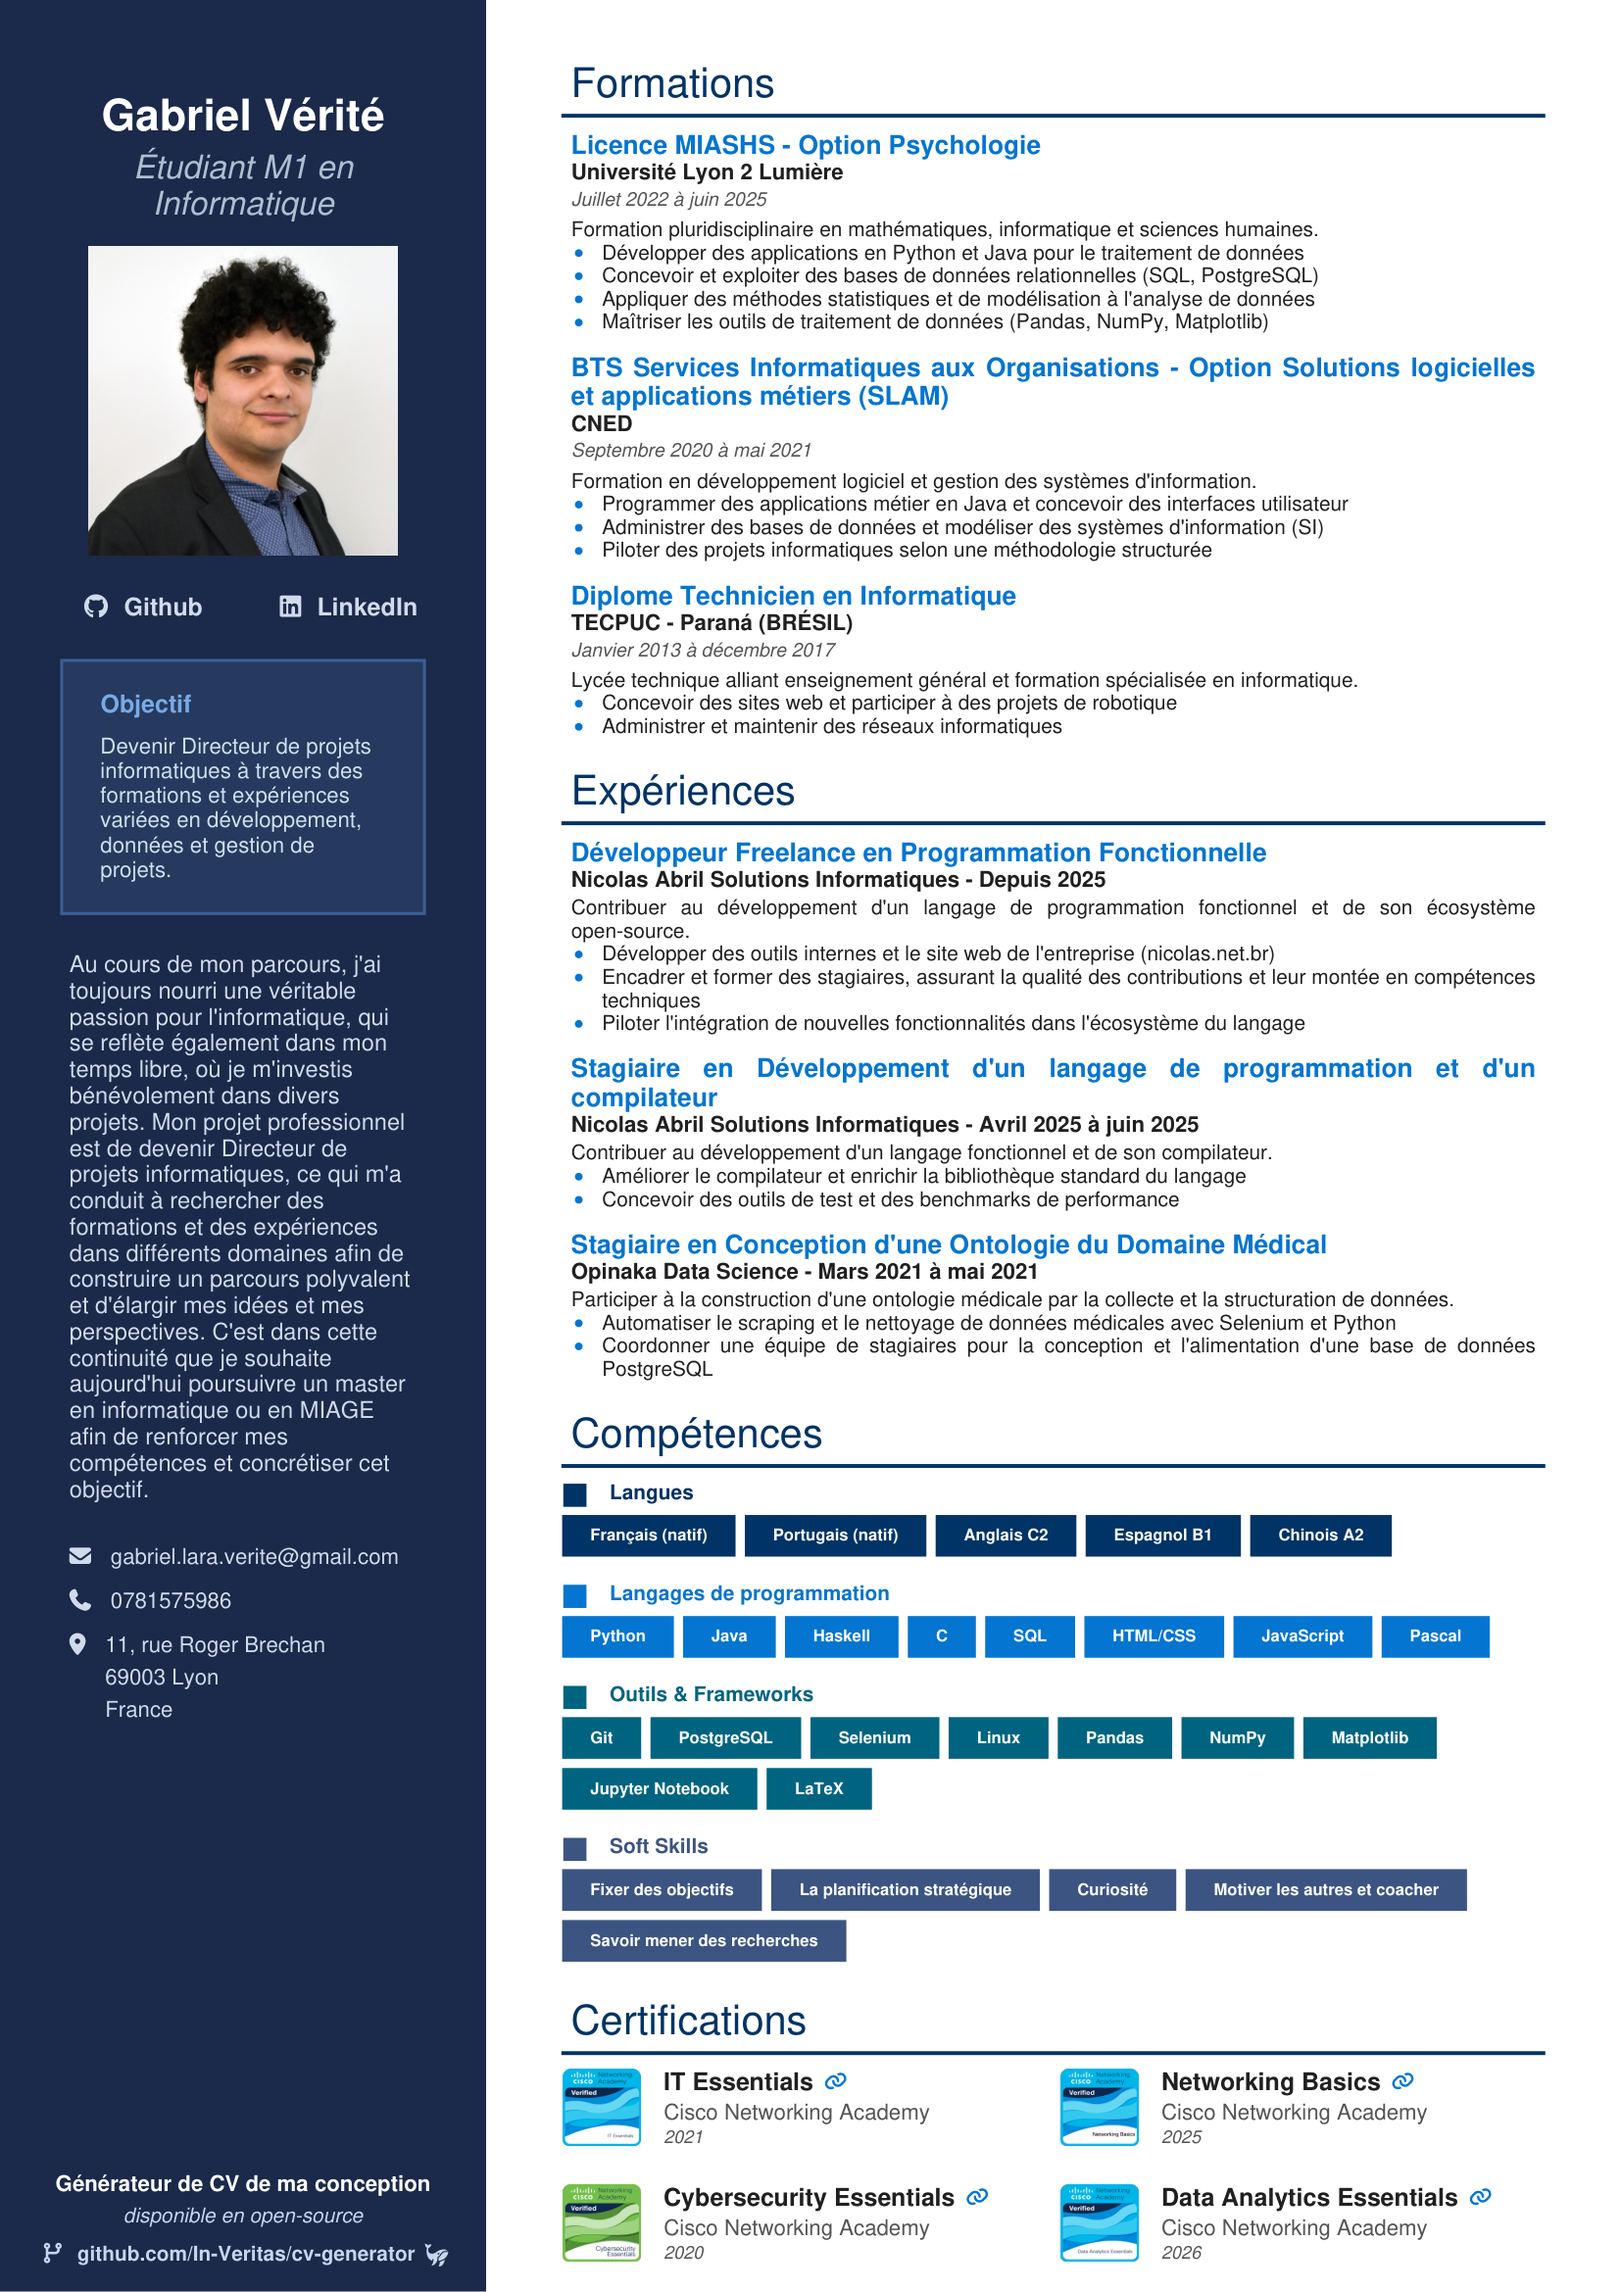
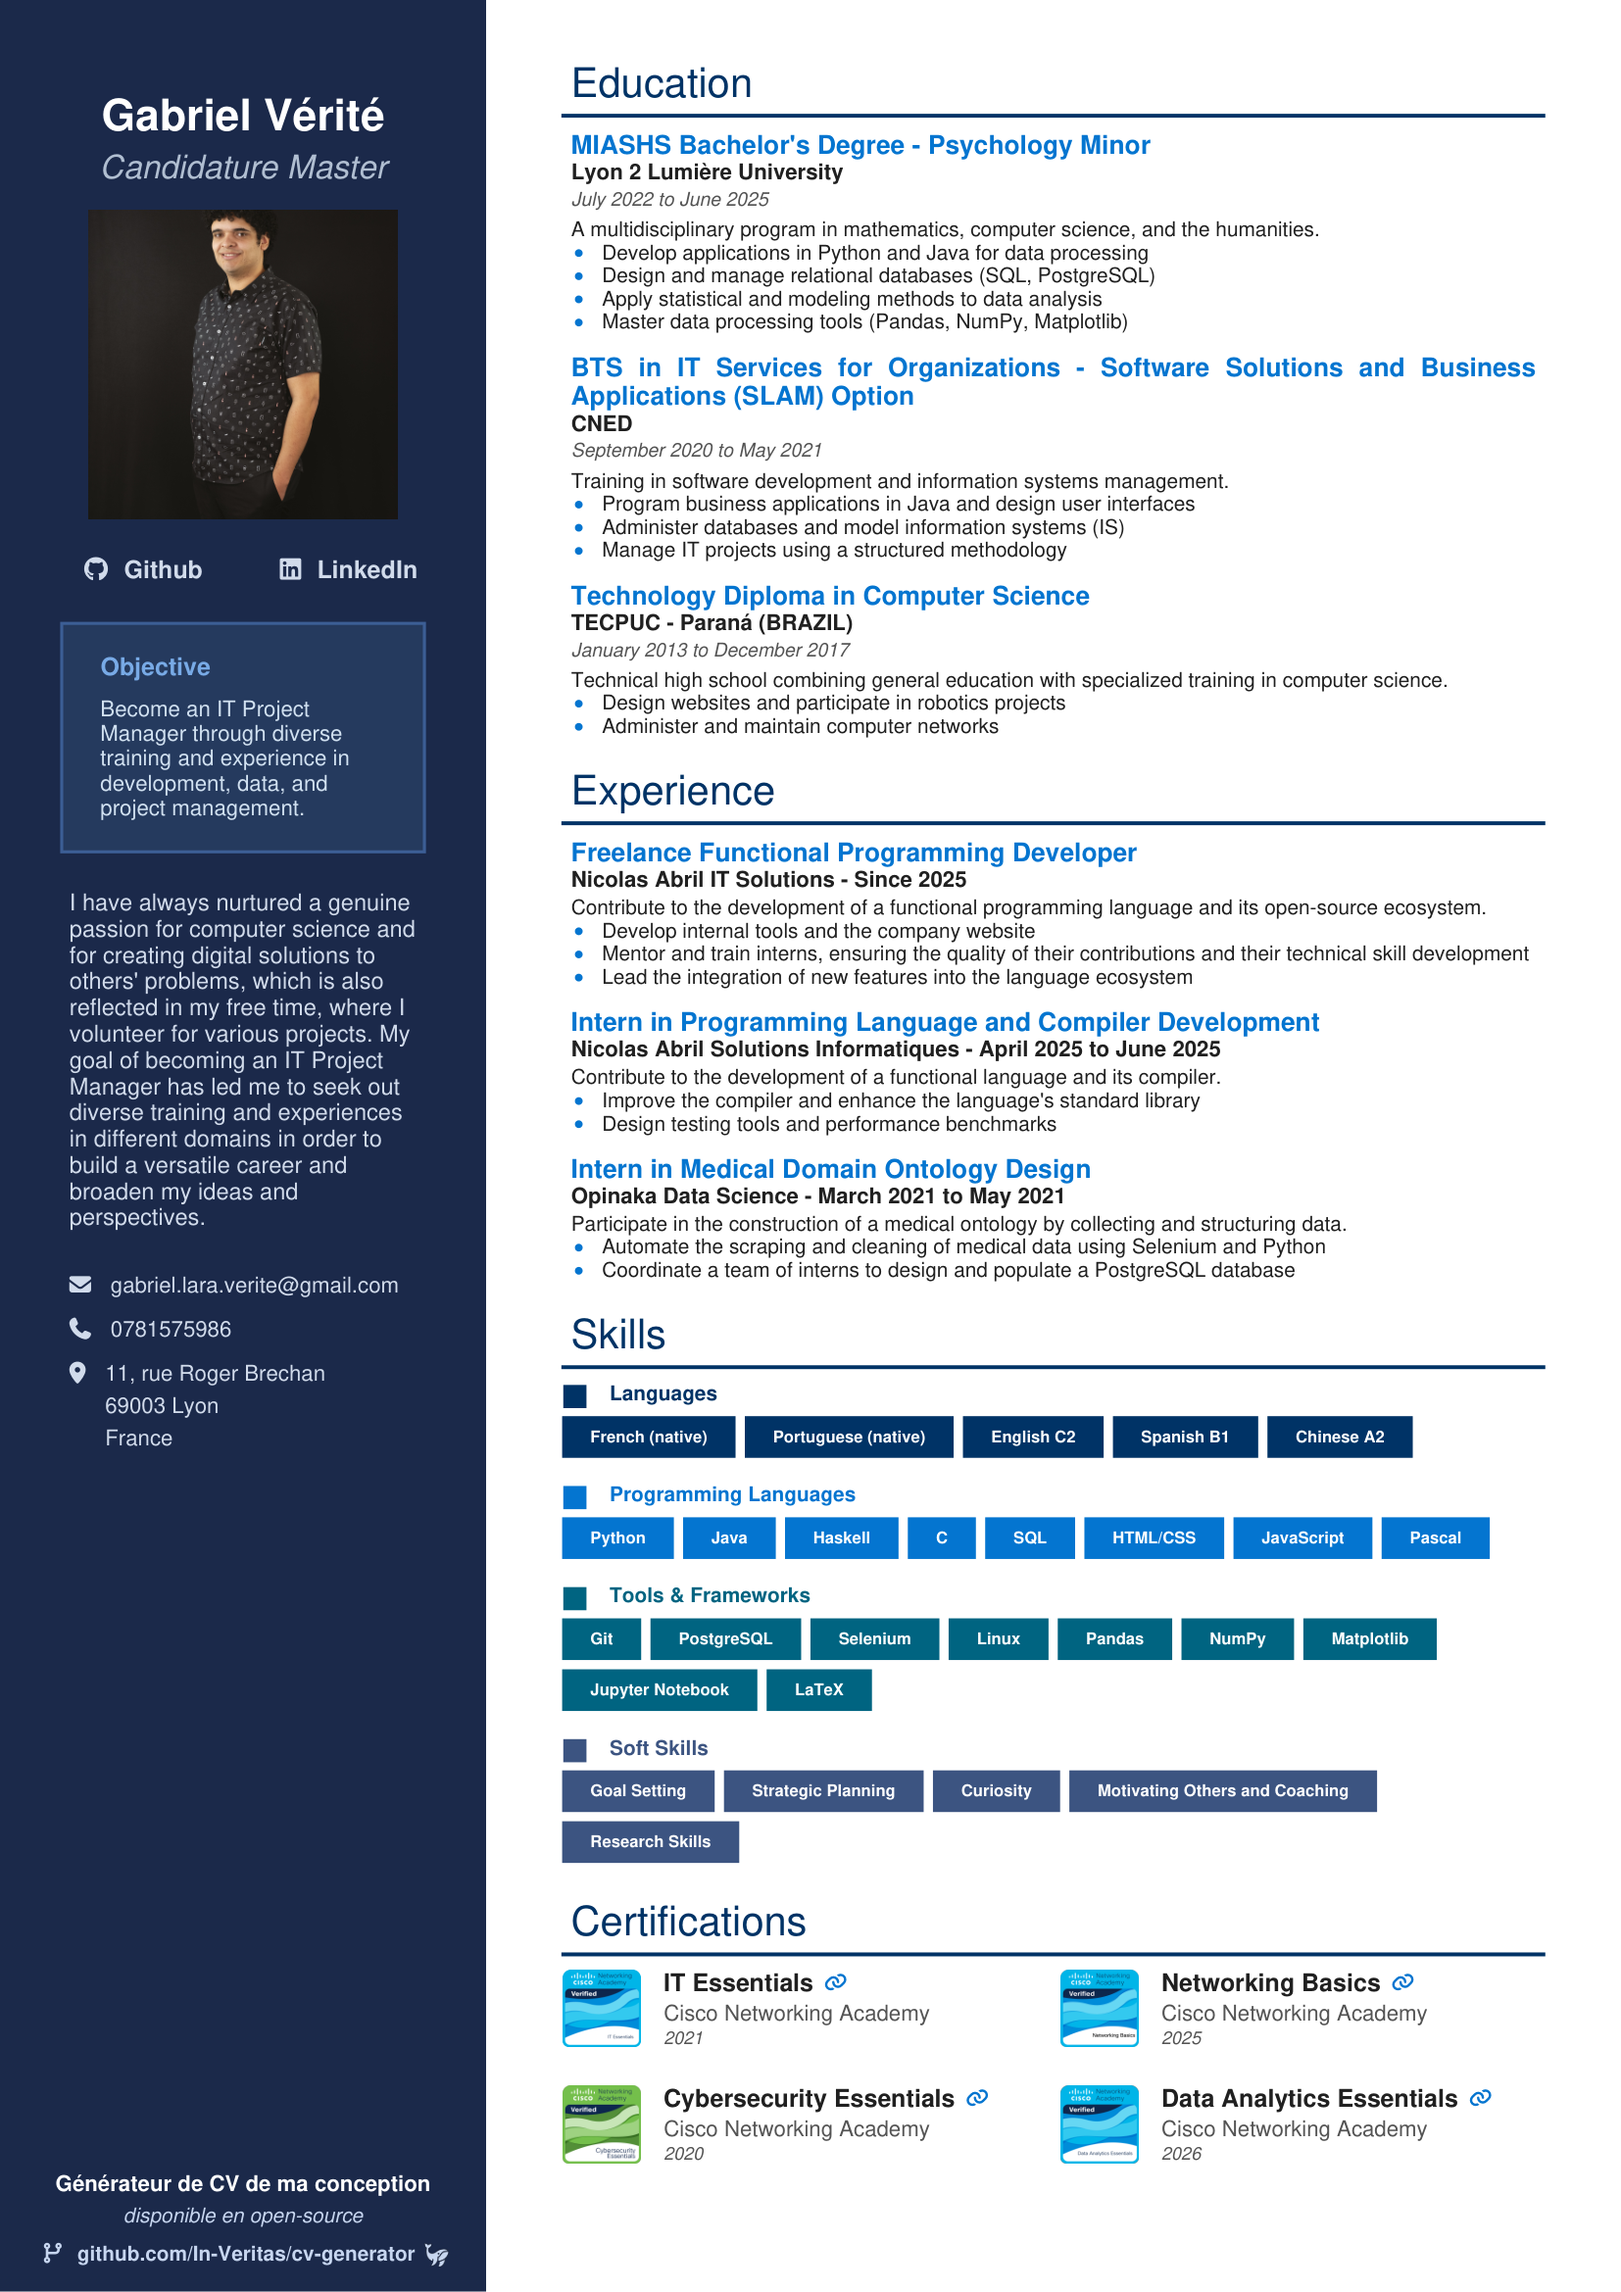
Switch CV to English, update photo, and regenerate preview
- Translate cv_data.json to English and move French content to cv_data_fr.json
- Replace photo.png with new photo.jpg
- Regenerate cv_preview.png from the new CV
- Add note in all READMEs that this CV earned a master's degree place

diff --git a/README.md b/README.md
@@ -8,6 +8,8 @@ A Python script that generates a professional two-column PDF CV from JSON config
 
 ![CV Preview](cv_preview.png)
 
+> **Note:** This very CV earned me a place in my new master's degree program — which is pretty cool.
+
 ## What It Can Be Used For
 
 - **Master's degree applications** (MonMaster, university dossiers) — optimized for French academic admissions committees

diff --git a/README.es.md b/README.es.md
@@ -6,6 +6,8 @@ Un script en Python que genera un CV profesional en PDF de dos columnas a partir
 
 ![Vista previa del CV](cv_preview.png)
 
+> **Nota:** Este mismo CV me consiguio una plaza en mi nuevo master -- lo cual es genial.
+
 ## Para que sirve
 
 - **Candidaturas a master** (MonMaster, expedientes universitarios) -- optimizado para comisiones de admision academica francesas

diff --git a/README.fr.md b/README.fr.md
@@ -6,6 +6,8 @@ Un script Python qui produit un CV professionnel en PDF deux colonnes a partir d
 
 ![Apercu du CV](cv_preview.png)
 
+> **Remarque :** Ce CV m'a permis d'obtenir une place dans mon nouveau master -- ce qui est plutot cool.
+
 ## A quoi ca sert
 
 - **Candidatures en master** (MonMaster, dossiers universitaires) -- optimise pour les jurys d'admission francais

diff --git a/README.pt.md b/README.pt.md
@@ -6,6 +6,8 @@ Um script Python que gera um CV profissional em PDF de duas colunas a partir de 
 
 ![Previa do CV](cv_preview.png)
 
+> **Nota:** Este proprio CV me garantiu uma vaga no meu novo mestrado -- o que e bem legal.
+
 ## Para que serve
 
 - **Candidaturas a mestrado** (MonMaster, dosses universitarios) -- otimizado para comissoes de admissao academica francesas
